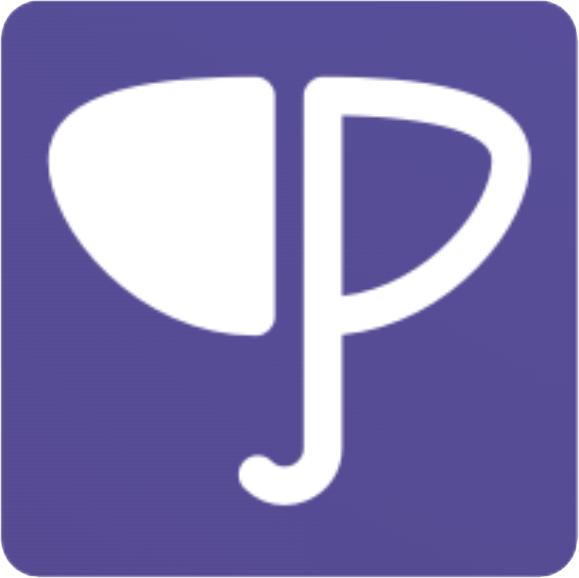
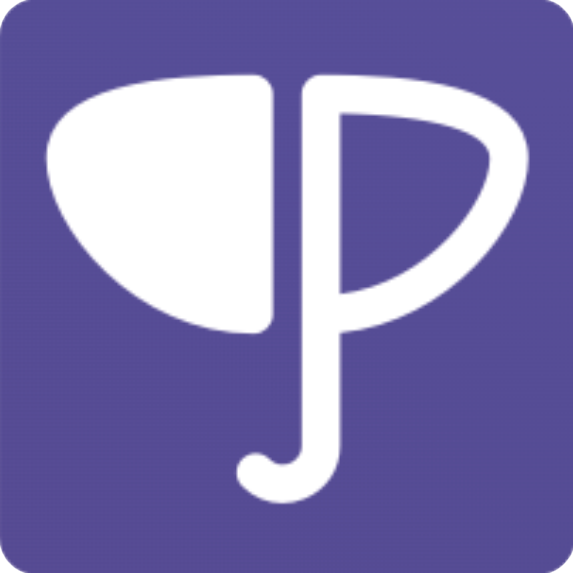
Prisma BG and cropped PG

diff --git a/README.md b/README.md
@@ -85,7 +85,7 @@ I use Apollo Server hosted on a Vercel function for custom logic that cannot be 
 ## Migrations: Prisma
 
 <p align="center">
-  <img src="/docs/img/prisma.png" alt="Prisma Logo" width="80">
+  <img src="/docs/img/prisma-bg.png" alt="Prisma Logo" width="80">
 </p>
 
 Migrations can be generated by Hasura's UI console as you click around to create tables and columns, but I prefer a more robust and cleaner way to decribe my database schema directly with code. That's why I use Prisma and its declarative schema, only to take care of migrations. 
@@ -137,7 +137,7 @@ I am a fan of passwordless authentication, particularly for bootstrapping projec
 ## Data Access (ORM): Prisma
 
 <p align="center">
-  <img src="/docs/img/prisma.png" alt="Prisma Logo" width="80">
+  <img src="/docs/img/prisma-bg.png" alt="Prisma Logo" width="80">
 </p>
 
 **I am not using Prisma for its ORM anymore**. I use Hasura directly from the Apollo Server via GraphQL queries. But for reference, this is what I think of the ORM landscape:
